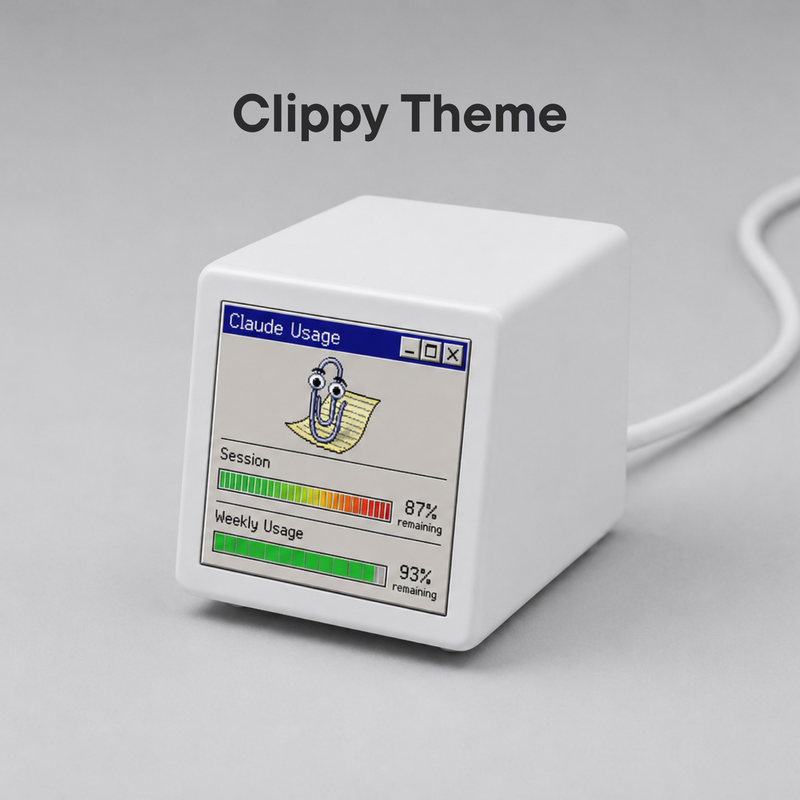
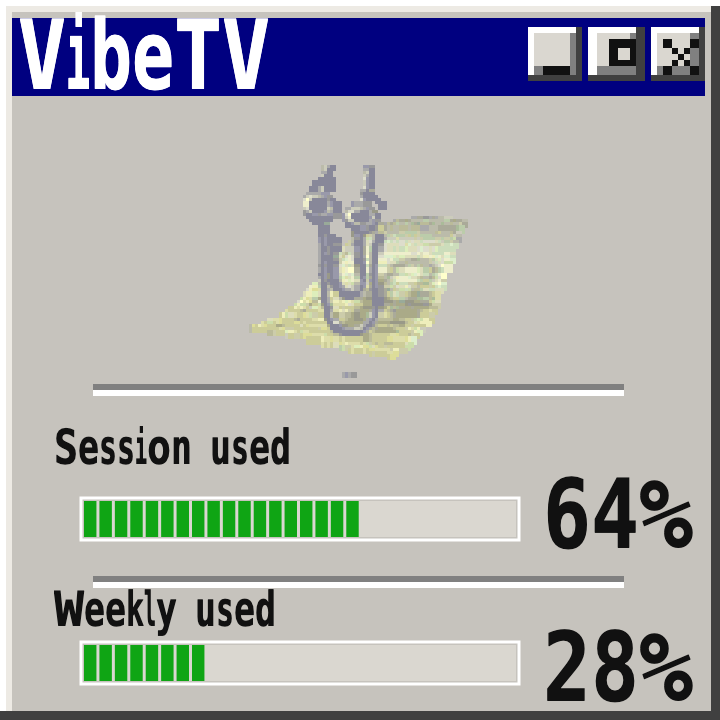
CODEX: Update README with six themes and screensaver previews (#433)
* docs: refresh theme renders and add screensaver gallery

* docs: correct render pack source links

* docs: optimize gallery images for web display

* docs: use normal screen previews throughout the galleries

* docs: add supplied VibeTV hero image above preview galleries

* docs: simplify gallery copy and link theme development guide

* docs: simplify screensaver copy and link CodexBar

diff --git a/docs/themes.md b/docs/themes.md
@@ -4,24 +4,36 @@ Themes decide how live VibeTV data appears on the device. The same provider
 usage can look compact, playful, retro, or highly information-dense depending
 on the active theme.
 
-<p align="center">
-  <img src="assets/vibetv-four-themes.png" alt="VibeTV with four included themes" width="560">
-</p>
-
 ## Included Themes
+
+The current catalog includes six live themes:
 
 | Theme | Preview | Notes |
 | --- | --- | --- |
-| Mini | <img src="assets/vibetv-theme-mini.png" alt="Mini theme" width="140"> | Compact theme focused on provider, session, weekly, tokens, and reset time. |
-| Claude Creature | <img src="assets/vibetv-theme-claude.png" alt="Claude Creature theme" width="140"> | Character-style usage display for Claude-heavy workflows. |
-| Clippy | <img src="assets/vibetv-theme-clippy.png" alt="Clippy theme" width="140"> | Animated assistant-style theme with live usage bindings. |
-| Synthwave | <img src="assets/vibetv-theme-synthwave.png" alt="Synthwave theme" width="140"> | High-contrast theme with a more visual display style. |
-| Tiny Office | <img src="assets/tiny-office/coding-preview.png" alt="Tiny Office theme" width="140"> | Pixel-art developer desk with an animated monitor; idle and coding scenes. See [tiny-office-theme.md](tiny-office-theme.md). |
+| Mini Classic | <img src="assets/vibetv-theme-mini-classic.png" alt="Mini Classic screen preview" width="180"> | Compact provider, session, weekly, and reset display. |
+| Claude Creature | <img src="assets/vibetv-theme-claude-creature.png" alt="Claude Creature screen preview" width="180"> | Character-style usage display. |
+| Clippy | <img src="assets/vibetv-theme-clippy.png" alt="Clippy screen preview" width="180"> | Animated assistant-style theme with live usage bindings. |
+| Synthwave | <img src="assets/vibetv-theme-synthwave.png" alt="Synthwave screen preview" width="180"> | Neon skyline and usage bars. |
+| Pixel Battery | <img src="assets/vibetv-theme-pixel-battery.png" alt="Pixel Battery screen preview" width="180"> | Segmented batteries show usage for two windows. |
+| Tiny Office | <img src="assets/vibetv-theme-tiny-office.png" alt="Tiny Office screen preview" width="180"> | Pixel-art developer desk with an animated monitor; idle and coding scenes. See [tiny-office-theme.md](tiny-office-theme.md). |
 
-The repository catalog also contains additional theme-pack work such as Cozy
-Meadow. The Mac App ships the matching repository catalog and theme packs in
-its local Control Center bundle. Shopify theme products are not part of this
-install path.
+## Included Screensavers
+
+Screensavers occupy a separate standby slot, so choosing one keeps your live
+theme selection. The current catalog includes:
+
+| Screensaver | Preview | Notes |
+| --- | --- | --- |
+| Night Clock | <img src="assets/vibetv-screensaver-night-clock.png" alt="Night Clock screensaver preview" width="180"> | Clock and upcoming provider resets. |
+| Reset Countdown | <img src="assets/vibetv-screensaver-reset-countdown.png" alt="Reset Countdown screensaver preview" width="180"> | Forest scene with a provider reset countdown. |
+| Token Fire | <img src="assets/vibetv-screensaver-token-fire.png" alt="Token Fire screensaver preview" width="180"> | Animated fireplace with token totals. |
+
+All previews are rendered from the current theme packs with example data.
+Available usage, reset, and token values depend on the provider and data freshness.
+See [image sources](assets/README.md) for preview sources.
+
+The Mac App ships the matching repository catalog and theme packs in its local
+Control Center bundle. Shopify theme products are not part of this install path.
 
 ## Customer Flow
 

diff --git a/README.md b/README.md
@@ -6,12 +6,8 @@ important changes before they interrupt your work.
 
 <p align="center">
   <a href="https://vibetv.shop/products/vibe-tv">
-    <img src="docs/assets/vibetv-hardware-detail.png" alt="VibeTV hardware showing an AI usage screen" width="560">
+    <img src="docs/assets/vibetv-hero.jpg" alt="White VibeTV desk display showing Codex usage on a light background" width="640">
   </a>
-</p>
-
-<p align="center">
-  <img src="docs/assets/vibetv-four-themes.png" alt="VibeTV showing four included themes" width="560">
 </p>
 
 **Start here:** [Buy the hardware](https://vibetv.shop/products/vibe-tv) ·
@@ -22,16 +18,36 @@ important changes before they interrupt your work.
 
 ## Themes
 
-| Mini | Claude Creature | Clippy | Synthwave |
-| --- | --- | --- | --- |
-| <img src="docs/assets/vibetv-theme-mini.png" alt="VibeTV Mini theme" width="160"> | <img src="docs/assets/vibetv-theme-claude.png" alt="VibeTV Claude Creature theme" width="160"> | <img src="docs/assets/vibetv-theme-clippy.png" alt="VibeTV Clippy theme" width="160"> | <img src="docs/assets/vibetv-theme-synthwave.png" alt="VibeTV Synthwave theme" width="160"> |
+VibeTV comes with 6 pre-built themes, but you can also
+[build your own](docs/theme-dev-guide.md).
 
-See [docs/themes.md](docs/themes.md) for included themes and custom theme
-development.
+<table>
+  <tr><th>Mini Classic</th><th>Claude Creature</th><th>Clippy</th></tr>
+  <tr>
+    <td align="center"><img src="docs/assets/vibetv-theme-mini-classic.png" alt="Mini Classic screen preview with session and weekly usage" width="180"></td>
+    <td align="center"><img src="docs/assets/vibetv-theme-claude-creature.png" alt="Claude Creature screen preview with its orange character and usage values" width="180"></td>
+    <td align="center"><img src="docs/assets/vibetv-theme-clippy.png" alt="Clippy screen preview with retro window and usage bars" width="180"></td>
+  </tr>
+  <tr><th>Synthwave</th><th>Pixel Battery</th><th>Tiny Office</th></tr>
+  <tr>
+    <td align="center"><img src="docs/assets/vibetv-theme-synthwave.png" alt="Synthwave screen preview with neon skyline and usage bars" width="180"></td>
+    <td align="center"><img src="docs/assets/vibetv-theme-pixel-battery.png" alt="Pixel Battery screen preview with segmented usage batteries" width="180"></td>
+    <td align="center"><img src="docs/assets/vibetv-theme-tiny-office.png" alt="Tiny Office screen preview with a pixel-art developer desk" width="180"></td>
+  </tr>
+</table>
+
+## Screensavers
+
+| Night Clock | Reset Countdown | Token Fire |
+| --- | --- | --- |
+| <img src="docs/assets/vibetv-screensaver-night-clock.png" alt="Night Clock screensaver preview showing the time and next resets" width="180"> | <img src="docs/assets/vibetv-screensaver-reset-countdown.png" alt="Reset Countdown screensaver preview with a forest and reset timer" width="180"> | <img src="docs/assets/vibetv-screensaver-token-fire.png" alt="Token Fire screensaver preview with a fireplace and token totals" width="180"> |
+
+See [docs/themes.md](docs/themes.md) for included themes, screensavers, and custom
+theme development.
 
 ## Providers
 
-VibeTV can show provider usage surfaced by CodexBar. Common examples include:
+VibeTV can show provider usage surfaced by [CodexBar](https://github.com/steipete/CodexBar). Common examples include:
 
 - Codex
 - Claude / Claude Code

diff --git a/docs/assets/README.md b/docs/assets/README.md
@@ -1,0 +1,27 @@
+# README image sources
+
+Updated for issue #431 on 2026-09-08. All six live themes and three screensavers
+use the same normal Control Center preview, without product mockups.
+
+Captured from `ThemeSpecPreview` at commit `c9192e6`, using unmodified current
+render packs, `THEME_CATALOG_PREVIEW_FRAME`, and `animate={false}`. The 240 × 240
+SVGs were captured at 3× resolution (720 × 720 PNG) and displayed at 180 pixels.
+These are static example states, not live device readings.
+
+| Preview | Render pack | ThemeSpec path | Spec hash |
+| --- | --- | --- | --- |
+| [Claude Creature](vibetv-theme-claude-creature.png) | [render pack](../../dist/theme-packs/render/claude-creature.json) | `/themes/u/claude--6-546f9e.json` | `546f9e84` |
+| [Clippy](vibetv-theme-clippy.png) | [render pack](../../dist/theme-packs/render/clippy.json) | `/themes/u/clippy-5-4f3746.json` | `4f37467f` |
+| [Mini Classic](vibetv-theme-mini-classic.png) | [render pack](../../dist/theme-packs/render/mini-classic.json) | `/themes/u/mini-cl-6-024b0e.json` | `024b0e34` |
+| [Night Clock](vibetv-screensaver-night-clock.png) | [render pack](../../dist/theme-packs/render/night-clock.json) | `/themes/s/nc-3-e18e4217.json` | `7c0481b8` |
+| [Pixel Battery](vibetv-theme-pixel-battery.png) | [render pack](../../dist/theme-packs/render/pixel-battery.json) | `/themes/u/pba-16-f46829.json` | `6c0dcf25` |
+| [Reset Countdown](vibetv-screensaver-reset-countdown.png) | [render pack](../../dist/theme-packs/render/reset-countdown.json) | `/themes/s/rcf-6-03e818f0.json` | `6db1710c` |
+| [Synthwave](vibetv-theme-synthwave.png) | [render pack](../../dist/theme-packs/render/synthwave.json) | `/themes/u/synthwa-5-0f760a.json` | `0f760a70` |
+| [Tiny Office](vibetv-theme-tiny-office.png) | [render pack](../../dist/theme-packs/render/tiny-office.json) | `/themes/u/to-7-d7799cec.json` | `6b398ec9` |
+| [Token Fire](vibetv-screensaver-token-fire.png) | [render pack](../../dist/theme-packs/render/token-fire.json) | `/themes/s/tf-5-9aeed240.json` | `f589d51e` |
+
+## Hero image
+
+[vibetv-hero.jpg](vibetv-hero.jpg) uses the product image supplied by the user on
+2026-09-08. Exported from the 1448 × 1086 PNG at 1280 × 960, JPEG quality 85,
+for a 640-pixel display width. No crop or content changes.
